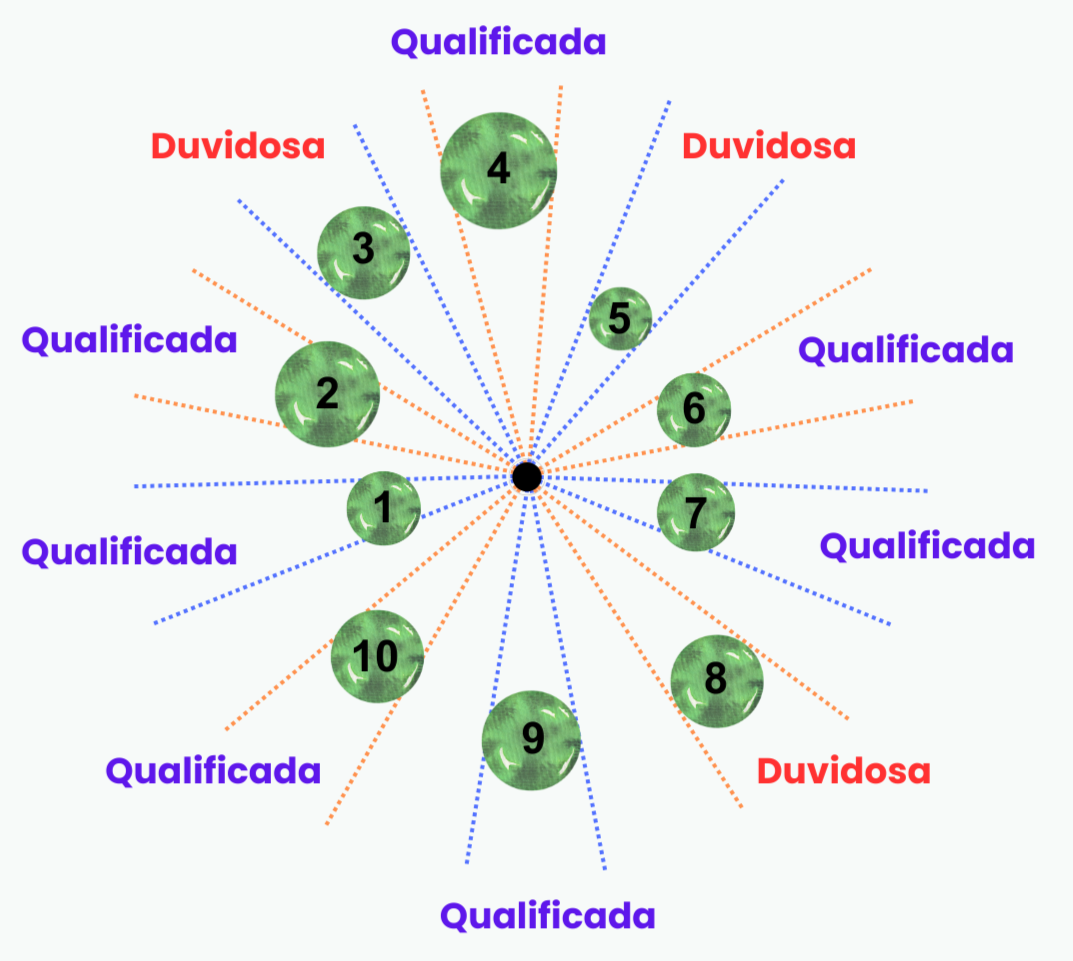
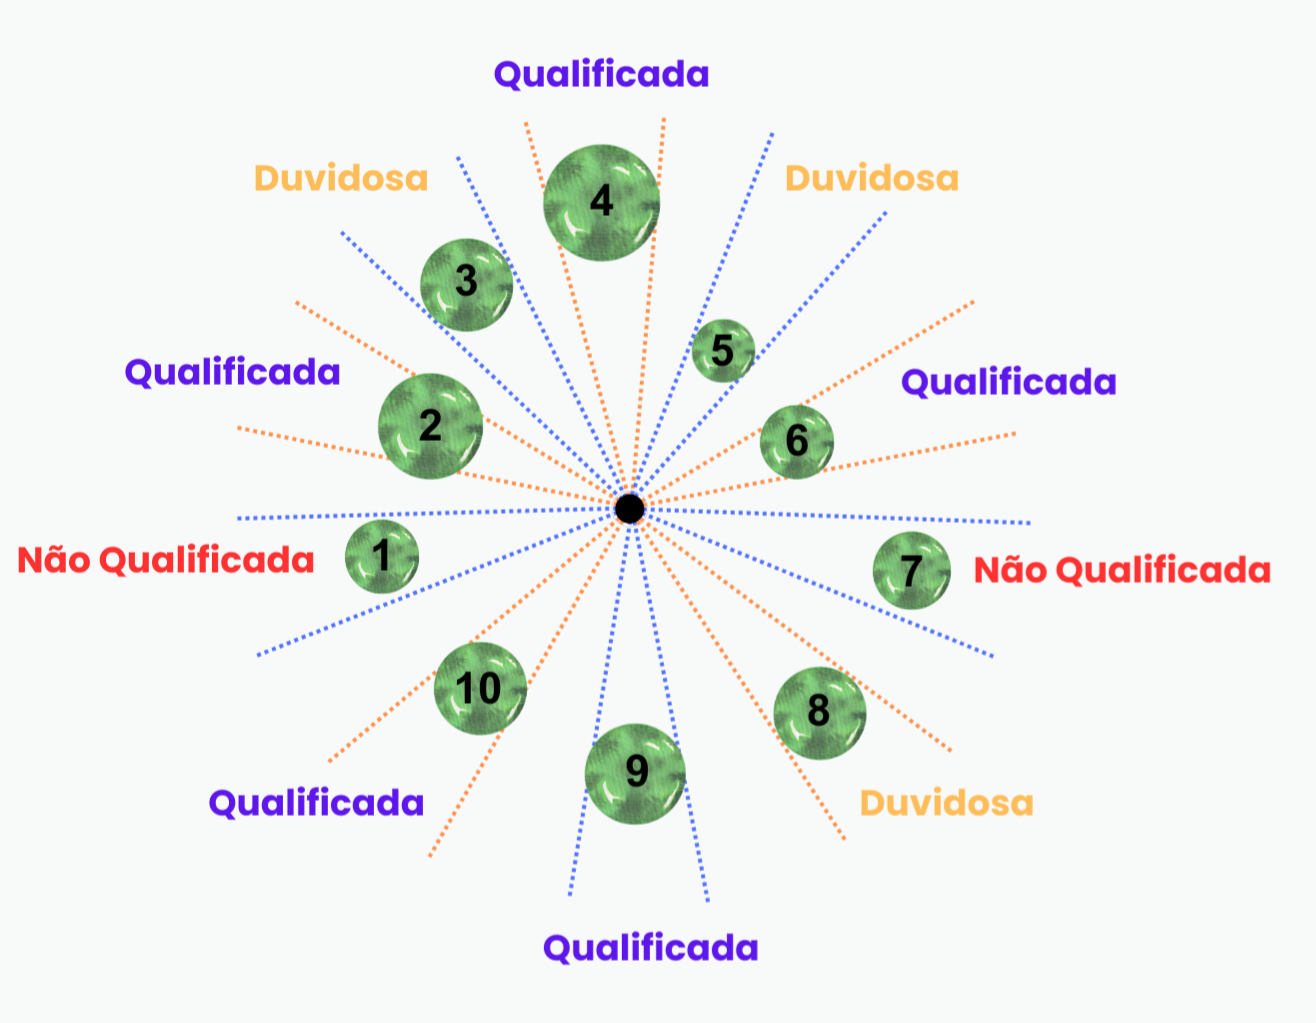
Update

diff --git a/Slides/04-Métodos-Amostragem.html b/Slides/04-Métodos-Amostragem.html
@@ -1350,6 +1350,29 @@ H) Cordão p/ transporte ao peito.
 ]
 ]
 
+---
+
+## 🌳 Métodos de Amostragem
+
+.shadow1[
+.font80[
+### Método de Bitterlich - .black[Qualificação de árvores na unidade amostral]
+]
+]
+
+&lt;br&gt;
+
+.pull-left-4[
+&lt;img src="fig/class4/duv1.png" width="75%" style="display: block; margin: auto;" /&gt;
+]
+
+--
+
+.pull-right-4[
+&lt;img src="fig/class4/duv2.png" width="80%" style="display: block; margin: auto;" /&gt;
+]
+
+
 
 ---
 
